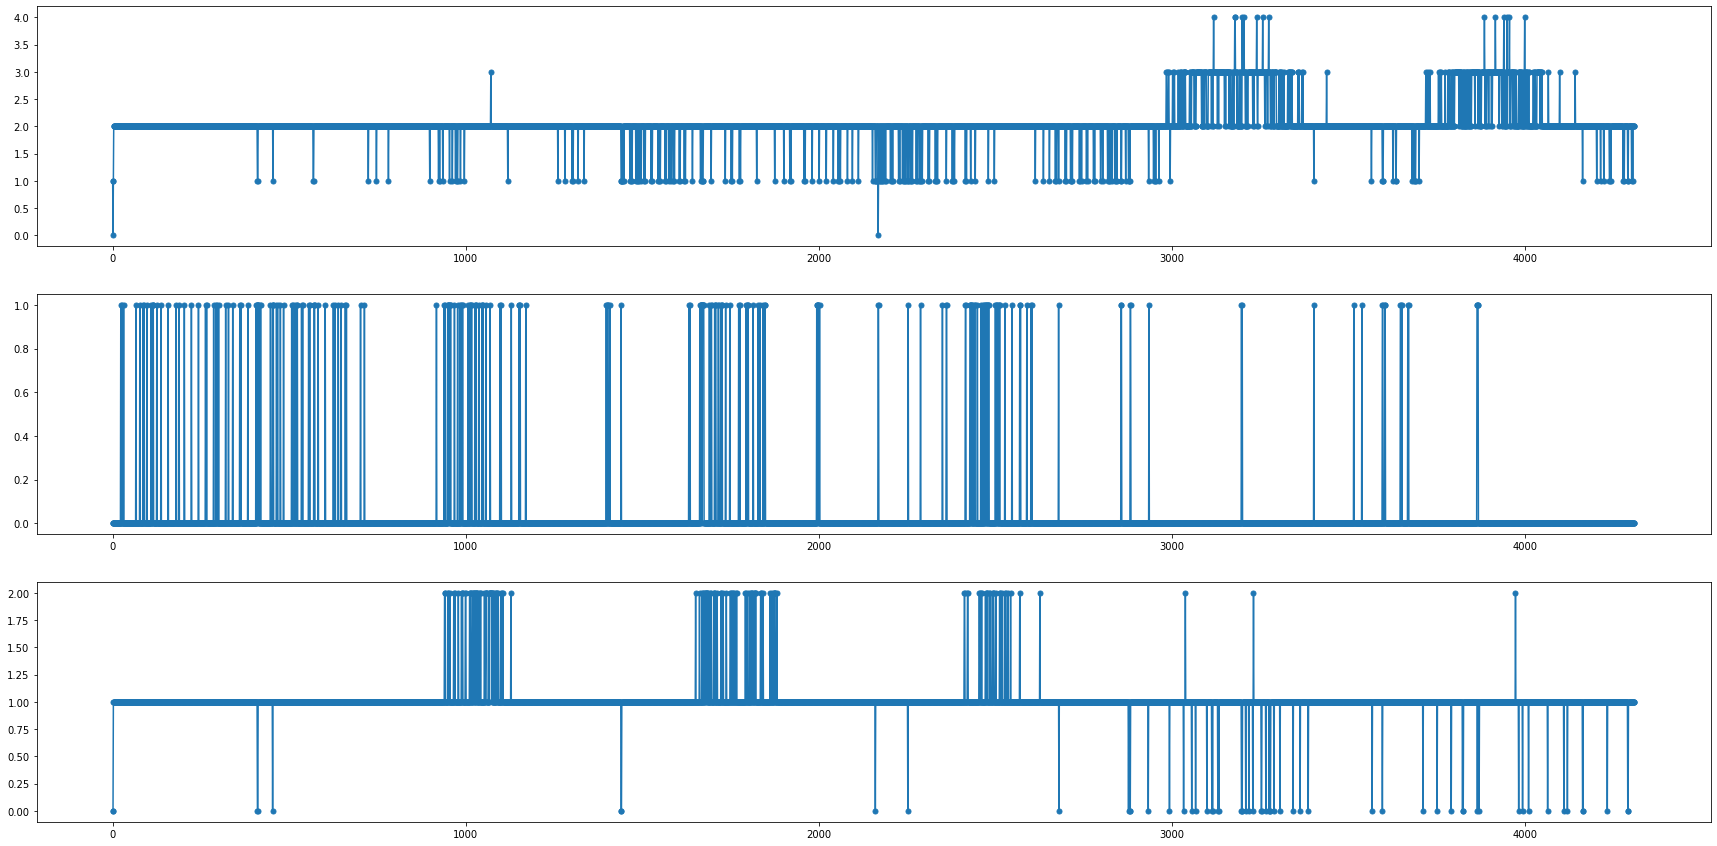
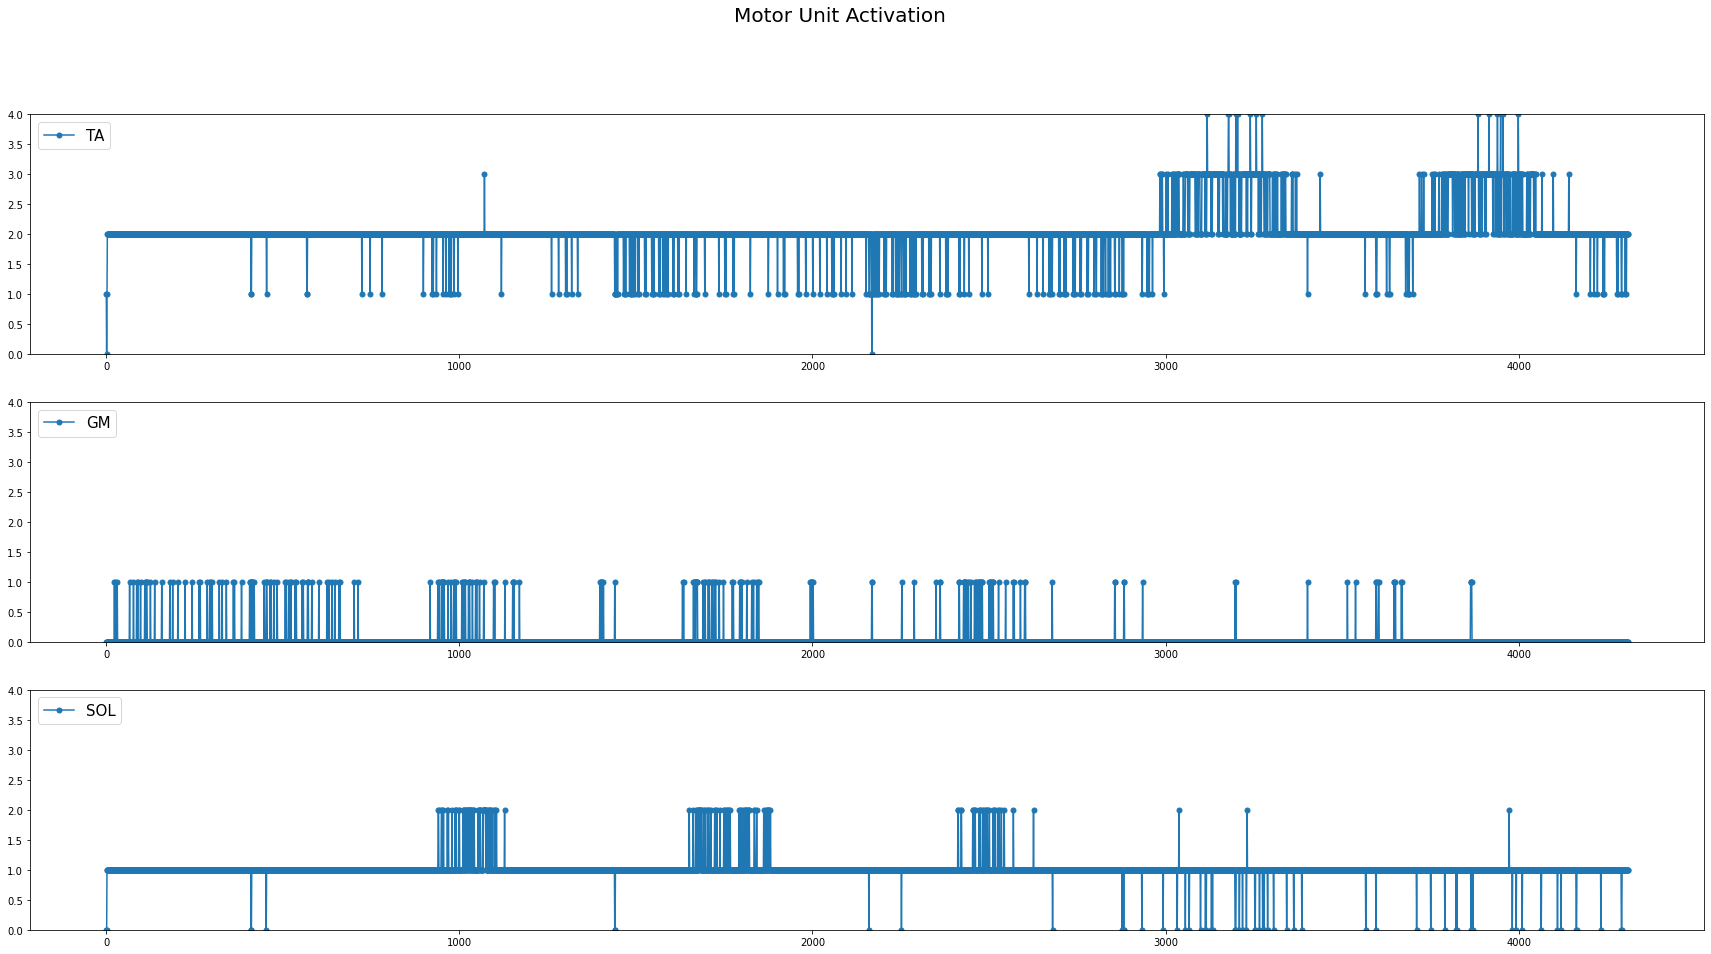
Final project portfolio post

diff --git a/_posts/2022-12-09-Exo.md b/_posts/2022-12-09-Exo.md
@@ -78,7 +78,15 @@ There are three primary stages involved in the pipeline for real-time torque pre
 
 
 
-### Data Processin
+### Data Processing
+
+<p align="center">
+![Raw Data](https://algarv.github.io/Portfolio/assets/images/raw_data_100.png)
+</p>
+
+<p align="center">
+Raw data sampled at approximately 100 Hz
+</p>
 
 **Method 1: Root-Mean-Square EMG**
 
@@ -87,14 +95,27 @@ There are three primary stages involved in the pipeline for real-time torque pre
 ![EMG Calibration Flow Chart](https://algarv.github.io/Portfolio/assets/images/emg_calibration_flowchart.png)
 </p>
 
+After the intermediate processing steps, a final data frame is constructed from data recorded during each trajectory task including RMS emg from each muscle, joint torque, and the fixed joint angle for the task. 
+
 <p align="center">
 
 ![EMG Data Frame](https://algarv.github.io/Portfolio/assets/images/emg_df.png)
+
+</p>
+
+The final data frame is fed into an optimization algorithm that calculates coefficients to minimizes the error between the predicted torque and recorded torque values.
+
+<p align="center">
+Root Mean Square EMG data, torque, and angles across a basline period and 5 tasks 
 </p>
 
 <p align="center">
 
 ![Predicted vs. Actual](https://algarv.github.io/Portfolio/assets/images/emg_fit.png)
+</p>
+
+<p align="center">
+Predicted torque measurements plotted on top of measured values to show model performance 
 </p>
 
 **Method 2: Cumulative Spike Train Estimation**
@@ -104,14 +125,35 @@ There are three primary stages involved in the pipeline for real-time torque pre
 ![CST Calibration Flow Chart](https://algarv.github.io/Portfolio/assets/images/cst_calibration_flowchart.png)
 </p>
 
+A key processing step in order for accurate motor unit activation predictions is normalizing the raw data to the maximum of each muscle. As shown in the plot below, this can be difficult with the noise and artifacts even after a peak-removing step.  
+
 <p align="center">
 
 ![Normalized CST Data](https://algarv.github.io/Portfolio/assets/images/normalized.png)
 </p>
+<p align="center">
+Normalized Raw EMG Data from 3 Channels
+</p>
+
+Motor unit activation predicted from the neural net should gradually increase from 0 to 4, mapping to no activation through maximum activation. The neural net is primarily looking at the shape of the signal, so it is not surprising that the spike predictions do not follow a regular 0 to 4 to 0 gradual increase/decrease pattern if there is a low signal to noise ratio. Ideally, we would look for patterns more similar to the end of the channel in the topmost chart below.  
 
 <p align="center">
 
+![Muscle Activation](https://algarv.github.io/Portfolio/assets/images/muscle_activation.png)
+</p>
+ 
+<p align="center">
+Neural Net Output
+</p>
+
+However, despite the low signal quality, after the convolution across the 40ms hanning window trends do actually appear.
+
+<p align="center">
 ![CST Data Frame](https://algarv.github.io/Portfolio/assets/images/cst_df.png)
+</p>
+<p align="center">
+
+Cumulative spike train estimation, torque, and angles across a baseline period and 5 tasks.
 </p>
 
 <p align="center">
@@ -119,7 +161,36 @@ There are three primary stages involved in the pipeline for real-time torque pre
 ![Predicted vs. Actual](https://algarv.github.io/Portfolio/assets/images/cst_fit.png)
 </p>
 
+<p align="center">
+Predicted torque measurements plotted on top of measured values to show model performance 
+</p>
 
+### Model Evaluation
+
+To understand the state of predictions, I evaluated the model performance across six possible calibration procedures. This initialize analysis shows that there is significant room for improvement with the generalizability of the calibration. However, for a foundational framework, this is a promising first step towards a more robust calibration procedure. 
+
+<p align="center">
+
+![R^2 Values](https://algarv.github.io/Portfolio/assets/images/r2.png)
+
+</p>
+
+<p align="center">
+R<sup>2</sup> of model fit for each calibration task set training and testing on the same data
+</p>
+
+To evaluate the generalizability, I tested the model trained on each calibration procedure on every task. This heatmap shows that generally each calibration procedure will perform well for the tasks included in the training, but will struggle as the tasks become more disparate. 
+
+<p align="center">
+
+![R^2 Heat Map](https://algarv.github.io/Portfolio/assets/images/heatmap.png)
+</p>
+
+<p align="center">
+R<sup>2</sup> of fit for each calibration task set tested on each individual task
+</p>
+
+A box plot of the same data further shows the variation in the R<sup>2</sup> value. While the distribution tends towards more acceptable R<sup>2</sup> values, each procedure contains extreme outlier where the model is effecrively useless, if not counter productive (a negative R<sup>2</sup> indicates the model would perform better with a constant value).
 
 ### Outcomes
 
